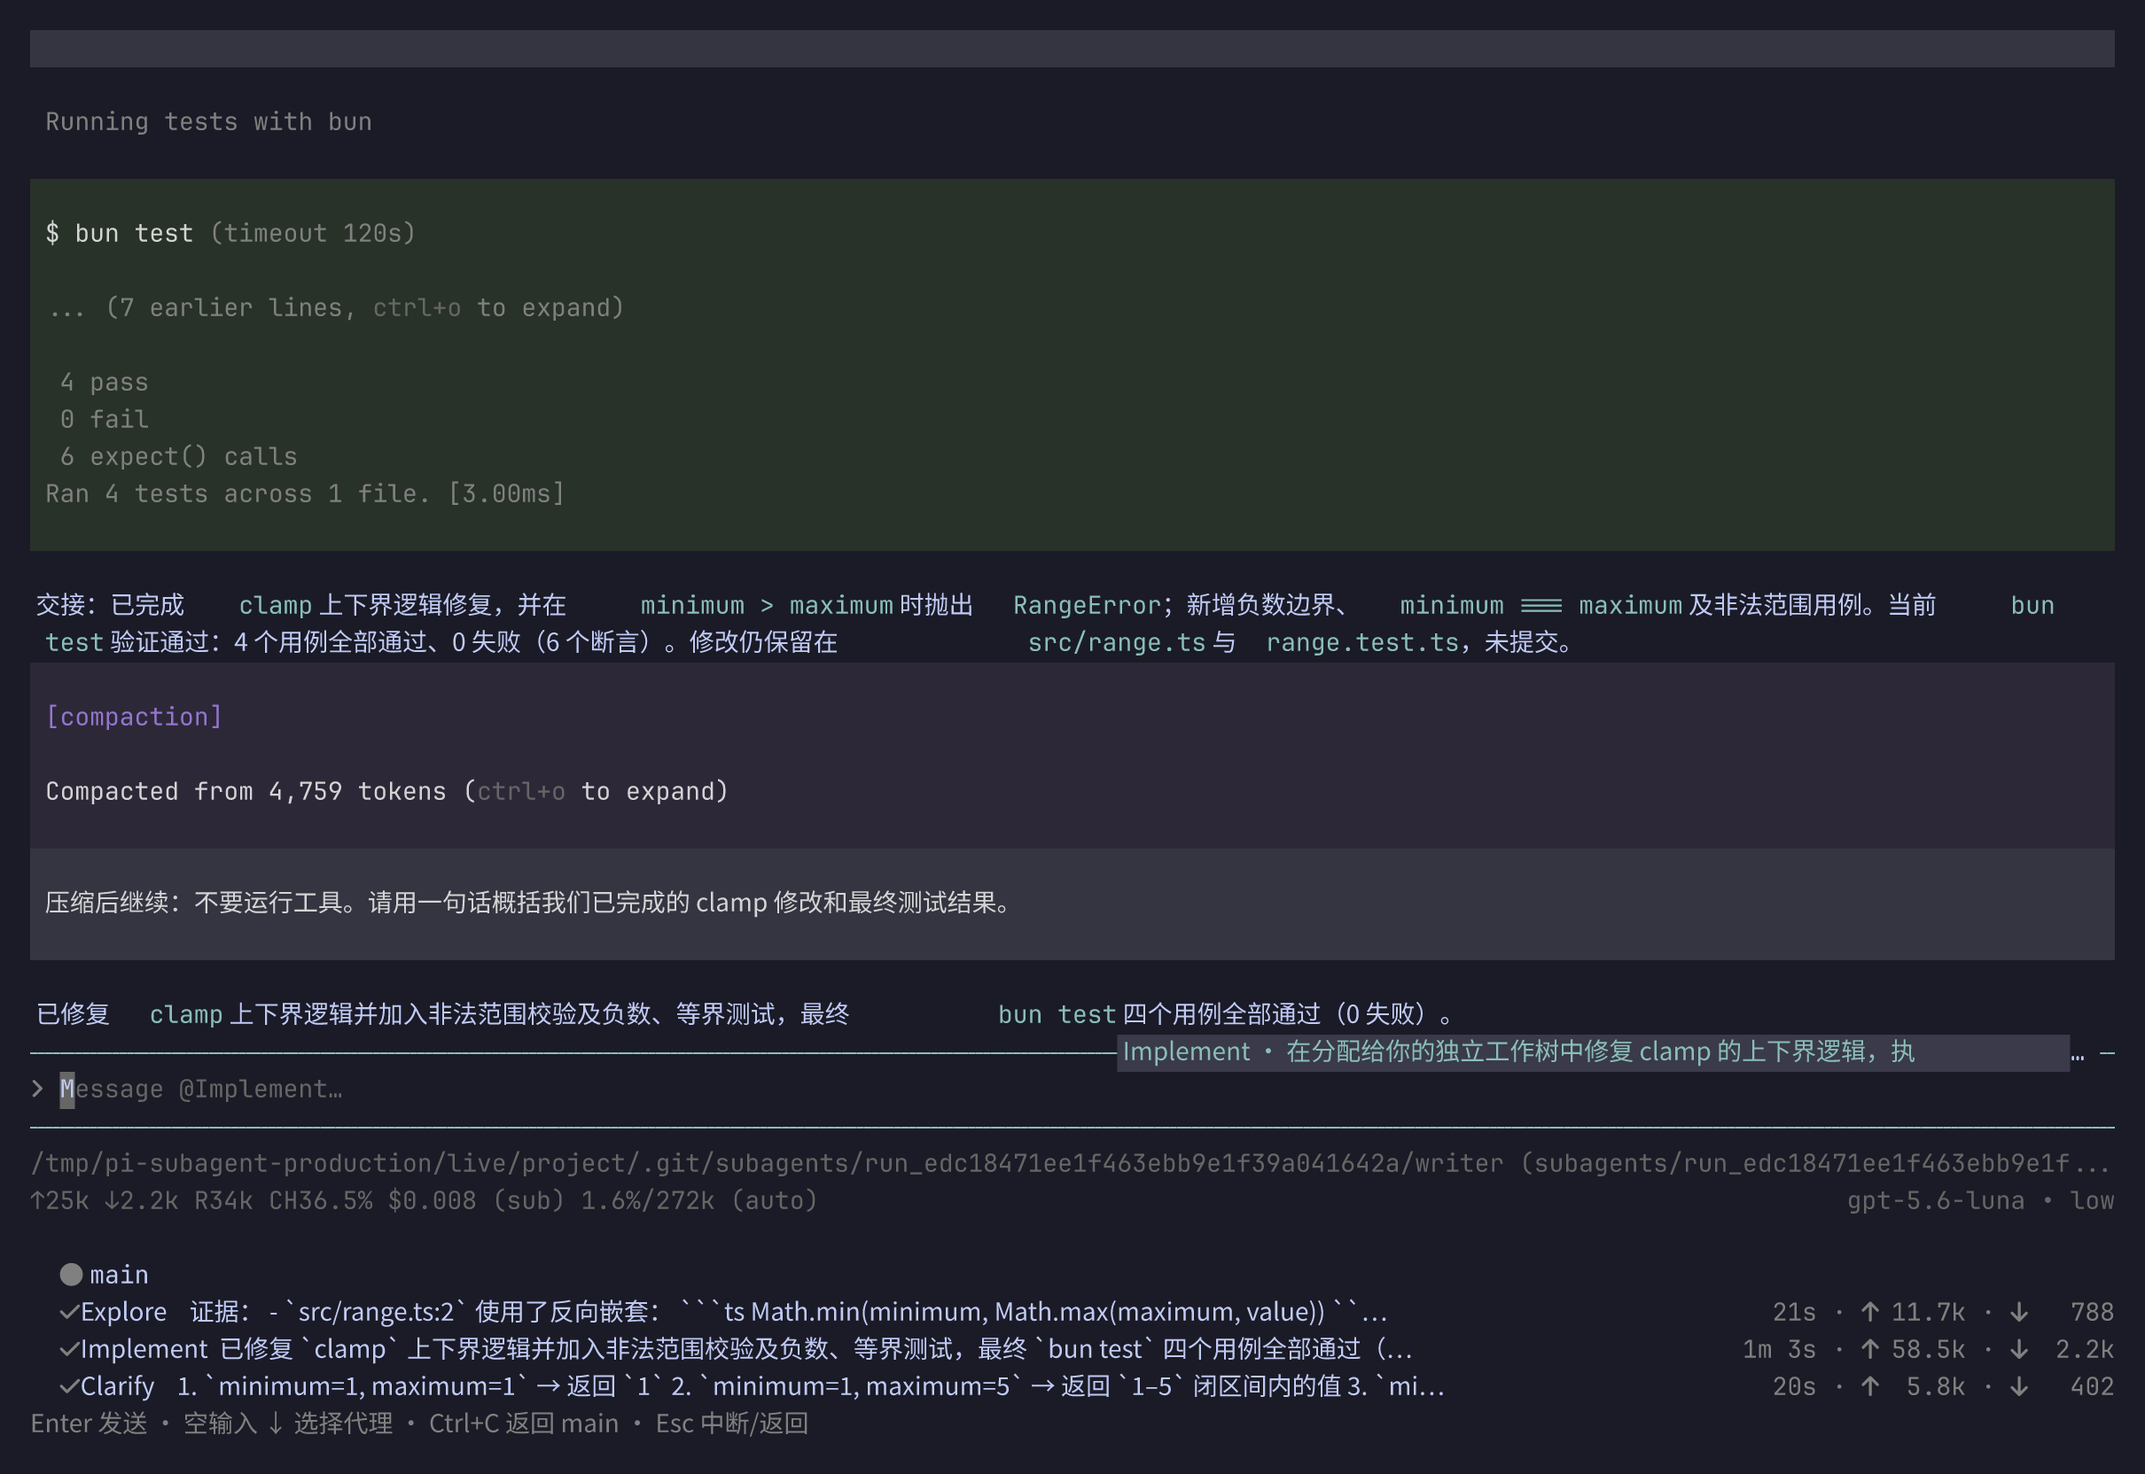
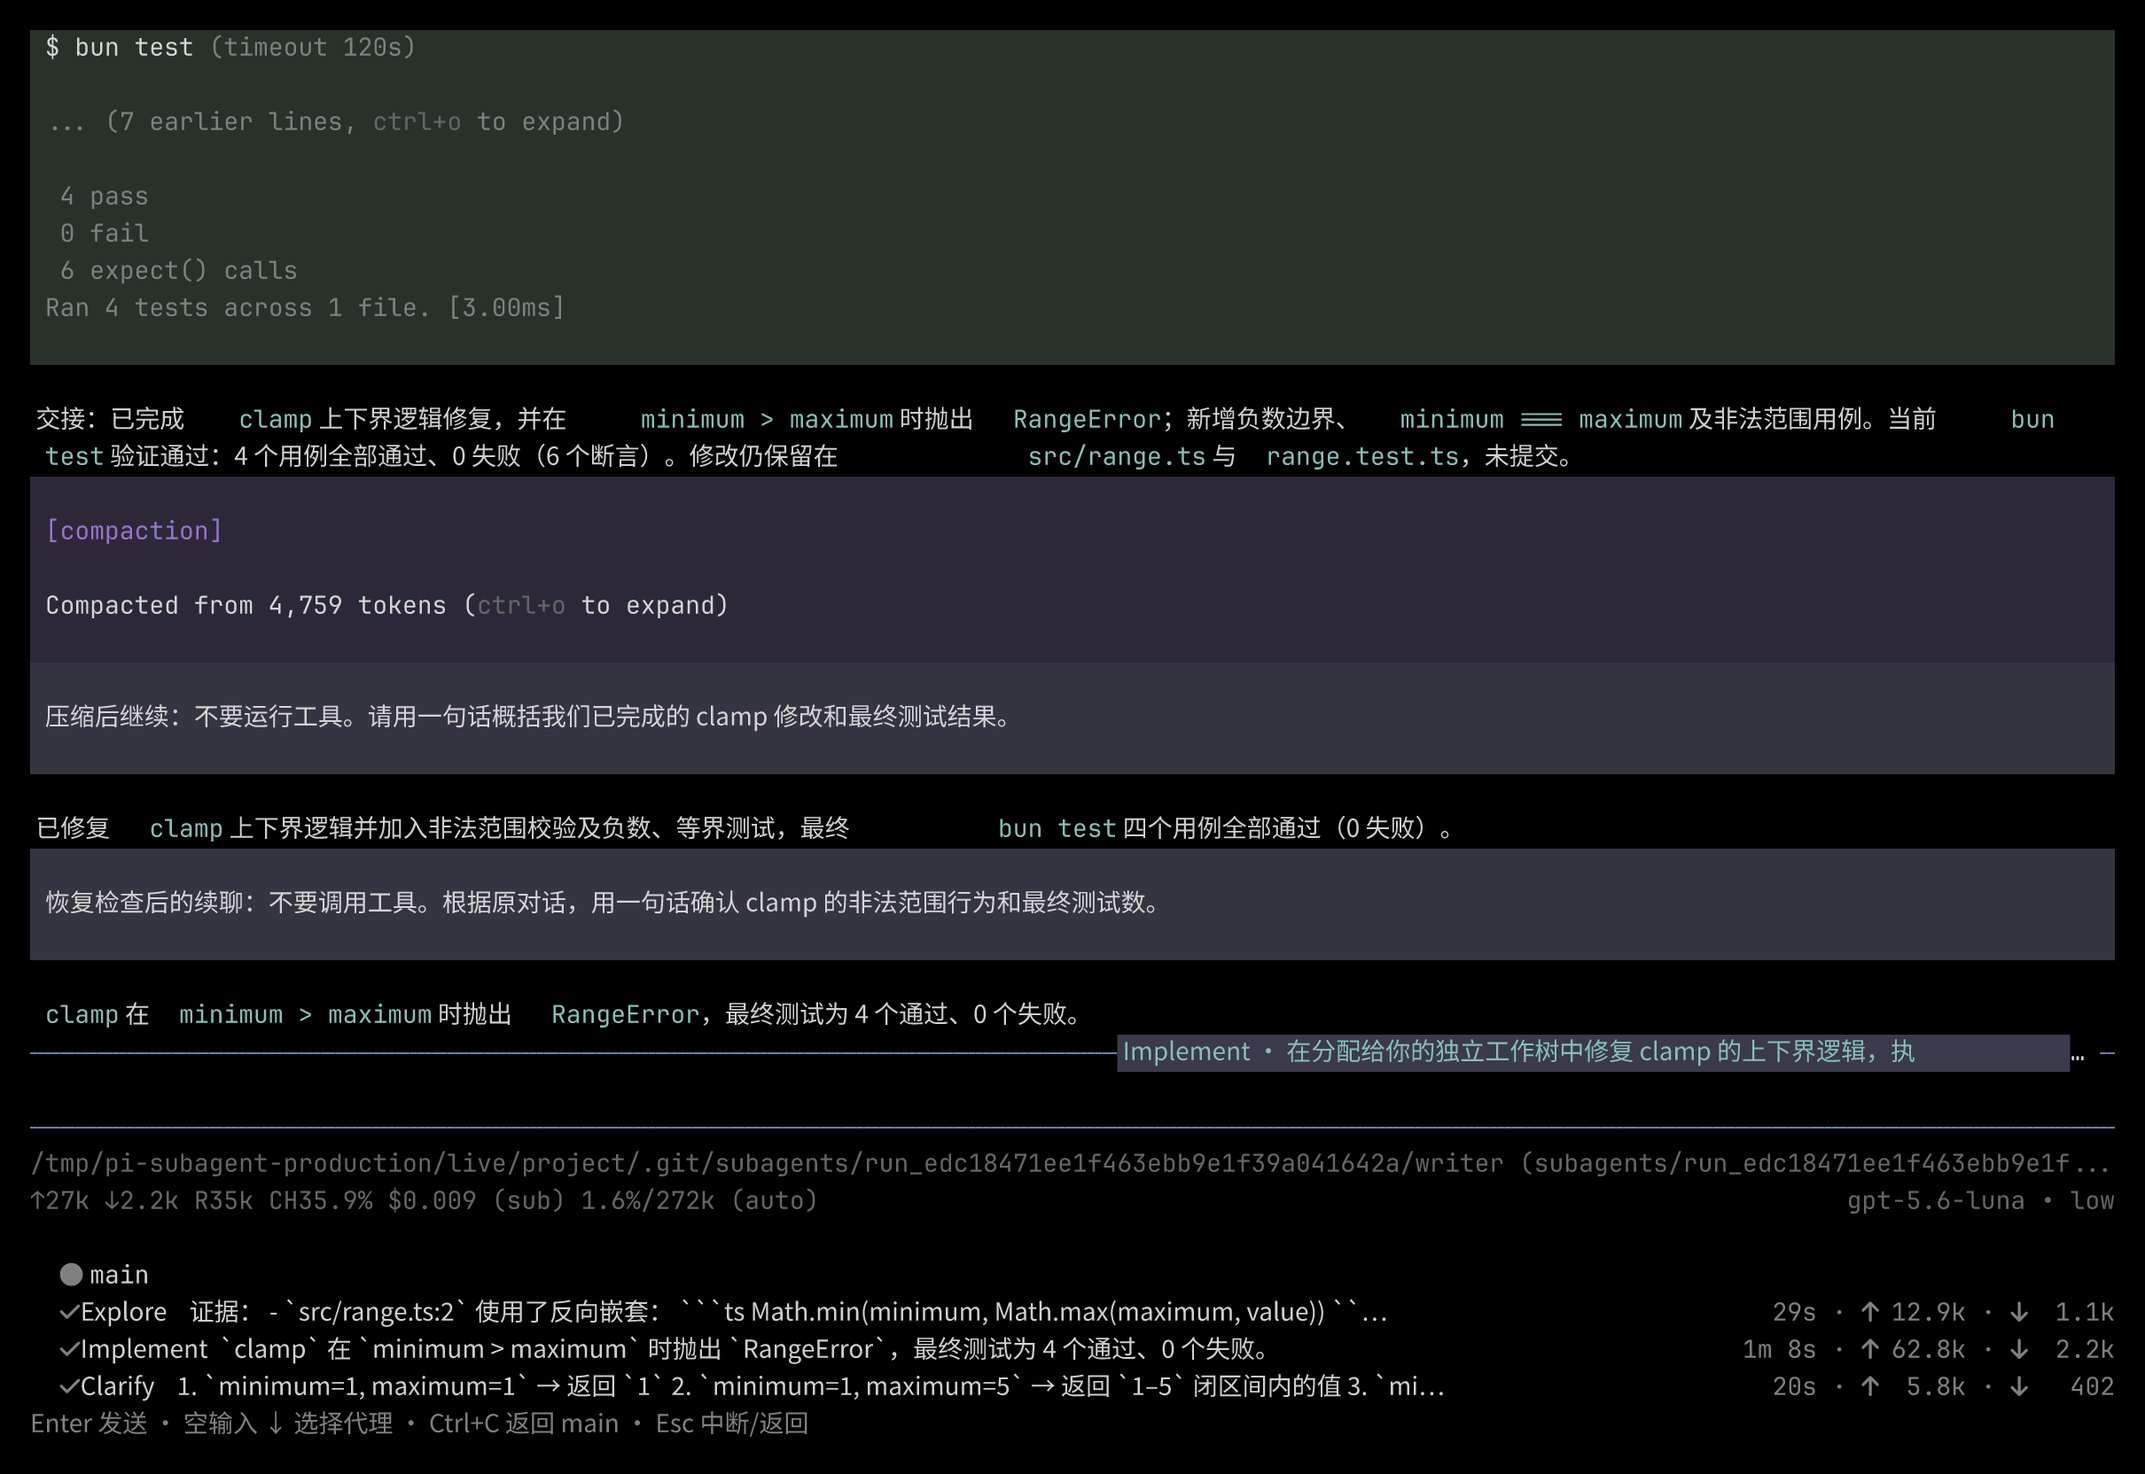
fix(subagent): restore native editor and transcript scrolling
Handle Pi normalized mouse events in the child viewer and use native
viewport bindings. Preserve the native editor input and border styling
except for its upper-right agent label.

diff --git a/src/subagent/ui/viewer.ts b/src/subagent/ui/viewer.ts
@@ -9,6 +9,8 @@ import {
   isKeyRelease,
   matchesKey,
   truncateToWidth,
+  type TuiMouseEvent,
+  type TuiMouseEventResult,
 } from '@earendil-works/pi-tui';
 import {decorateEditor} from './editor';
 import {Fleet, type AgentView} from './fleet';
@@ -38,15 +40,26 @@ export async function openViewer(
       const editor = new CustomEditor(
         tui,
         {
-          borderColor: text => theme.fg('accent', text),
+          borderColor: text =>
+            ctx.ui.theme.getThinkingBorderColor(
+              view.session?.thinkingLevel ?? 'off',
+            )(text),
           selectList: getSelectListTheme(),
         },
         keys,
+        {
+          paddingX: view.session?.settingsManager.getEditorPaddingX() ?? 0,
+          autocompleteMaxVisible:
+            view.session?.settingsManager.getAutocompleteMaxVisible() ?? 5,
+          embedWorkingStatus: true,
+        },
       );
       let footer = view.session
         ? new FooterComponent(view.session, childFooterData(view, footerData))
         : undefined;
       let bodyRows = 1;
+      let editorRows = 0;
+      let maxScroll = 0;
       let closed = false;
       editor.setText(view.draft);
       for (const prompt of historyFor(view)) editor.addToHistory(prompt);
@@ -167,8 +180,10 @@ export async function openViewer(
               ? '↑↓ 选择 · Enter 进入 · x 停止 · Esc 回到输入'
               : 'Enter 发送 · 空输入 ↓ 选择代理 · Ctrl+C 返回 main · Esc 中断/返回',
           );
+          const editorLines = editor.render(width);
+          editorRows = editorLines.length;
           const bottom = [
-            ...editor.render(width),
+            ...editorLines,
             ...footerLines,
             '',
             ...fleetLines,
@@ -179,10 +194,8 @@ export async function openViewer(
           view.transcript?.attach(tui);
           const transcript =
             view.transcript?.render(width, view.expanded) ?? [];
-          view.scroll = Math.min(
-            view.scroll,
-            Math.max(0, transcript.length - bodyRows),
-          );
+          maxScroll = Math.max(0, transcript.length - bodyRows);
+          view.scroll = Math.min(view.scroll, maxScroll);
           const end = transcript.length - view.scroll;
           const body = transcript.slice(Math.max(0, end - bodyRows), end);
           while (body.length < bodyRows) body.push('');
@@ -190,8 +203,49 @@ export async function openViewer(
             truncateToWidth(line, width, '…'),
           );
         },
+        handleMouse(event: TuiMouseEvent): TuiMouseEventResult | undefined {
+          if (event.y >= bodyRows && event.y < bodyRows + editorRows) {
+            const result = editor.handleMouse({
+              ...event,
+              y: event.y - bodyRows,
+              height: editorRows,
+            });
+            if (result) {
+              if (result.focus) fleet.focused = false;
+              return result;
+            }
+          }
+          if (event.type !== 'wheel') return undefined;
+          view.scroll = Math.max(
+            0,
+            Math.min(maxScroll, view.scroll - (event.wheelDelta ?? 0)),
+          );
+          return {handled: true, render: true};
+        },
         handleInput(data: string) {
           if (isKeyRelease(data)) return;
+          const scrolling = [
+            ['tui.altScreen.pageUp', Math.max(1, bodyRows - 2)],
+            ['tui.altScreen.pageDown', -Math.max(1, bodyRows - 2)],
+            ['tui.altScreen.halfPageUp', Math.max(1, Math.floor(bodyRows / 2))],
+            [
+              'tui.altScreen.halfPageDown',
+              -Math.max(1, Math.floor(bodyRows / 2)),
+            ],
+            ['tui.altScreen.lineUp', 1],
+            ['tui.altScreen.lineDown', -1],
+            ['tui.altScreen.top', maxScroll],
+            ['tui.altScreen.bottom', -maxScroll],
+          ] as const;
+          const scroll = scrolling.find(([key]) => keys.matches(data, key));
+          if (scroll) {
+            view.scroll = Math.max(
+              0,
+              Math.min(maxScroll, view.scroll + scroll[1]),
+            );
+            tui.requestRender();
+            return;
+          }
           const action = fleet.select(data, editor.getText() === '', keys);
           if (action) {
             if (action !== true) done(action === 'main' ? undefined : action);
@@ -215,10 +269,6 @@ export async function openViewer(
             else done(undefined);
           } else if (keys.matches(data, 'app.tools.expand')) {
             view.expanded = !view.expanded;
-          } else if (matchesKey(data, 'pageUp')) {
-            view.scroll += Math.max(1, bodyRows - 2);
-          } else if (matchesKey(data, 'pageDown')) {
-            view.scroll = Math.max(0, view.scroll - bodyRows + 2);
           } else if (matchesKey(data, 'ctrl+end')) {
             view.scroll = 0;
           } else {

diff --git a/tests/system/subagent-production.test.ts b/tests/system/subagent-production.test.ts
@@ -26,7 +26,12 @@ function screen(terminal: Session): string {
   return terminal
     .getTerminalData()
     .lines.slice(-terminal.currentRows)
-    .map(line => line.spans.map(span => span.text).join(''))
+    .map(line =>
+      line.spans
+        .map(span => span.text)
+        .join('')
+        .trimEnd(),
+    )
     .join('\n');
 }
 
@@ -59,6 +64,8 @@ test('production Pi host runs the offline subagent fleet through its public UI',
             resolve('node_modules/@earendil-works/pi-coding-agent/dist/cli.js'),
           ]),
       '--offline',
+      '--tui-mode',
+      'fullscreen',
       '--no-extensions',
       '--no-skills',
       '--no-context-files',
@@ -100,14 +107,14 @@ test('production Pi host runs the offline subagent fleet through its public UI',
     await terminal.press('enter');
     await terminal.text({
       timeout: 5000,
-      waitFor: () => screen(terminal).includes('Message @reviewer'),
+      waitFor: () => screen(terminal).includes('reviewer · 审查取消逻辑'),
     });
     expect(alive(mainPid)).toBe(true);
     await terminal.type('保留的 reviewer 草稿');
     await terminal.press(['ctrl', 'c']);
     await terminal.text({
       timeout: 5000,
-      waitFor: () => screen(terminal).includes('Message @main'),
+      waitFor: () => screen(terminal).includes(' main ─'),
     });
     expect(alive(mainPid)).toBe(true);
 
@@ -148,6 +155,45 @@ test('production Pi host runs the offline subagent fleet through its public UI',
     await terminal.type('继续验证恢复');
     await terminal.press('enter');
     await terminal.waitForText('已收到 tester 的补充', {timeout: 15_000});
+    await terminal.press(['ctrl', 'c']);
+
+    // Read the completed child's actual tool history with the mouse, without
+    // stealing its editor draft or cancelling the still-running main worker.
+    for (let index = 0; index < 4; index++) await terminal.press('down');
+    await terminal.press('enter');
+    await terminal.text({
+      timeout: 5000,
+      waitFor: () => screen(terminal).includes('explorer · 定位取消入口'),
+    });
+    await terminal.press(['ctrl', 'o']);
+    expect(screen(terminal)).not.toContain('Message @');
+    await terminal.type('滚动时保留的草稿');
+    await terminal.scrollUp(200, 40, 10);
+    await terminal.text({
+      timeout: 3000,
+      waitFor: () => screen(terminal).includes('checkpoint 1\n'),
+    });
+    expect(screen(terminal)).not.toContain('checkpoint 80');
+    expect(screen(terminal)).toContain('滚动时保留的草稿');
+    await terminal.scrollDown(200, 40, 10);
+    await terminal.text({
+      timeout: 3000,
+      waitFor: () => screen(terminal).includes('checkpoint 80'),
+    });
+    expect(screen(terminal)).not.toContain('checkpoint 1\n');
+    expect(screen(terminal)).toContain('滚动时保留的草稿');
+    await terminal.press('home');
+    await terminal.text({
+      timeout: 3000,
+      waitFor: () => screen(terminal).includes('checkpoint 1\n'),
+    });
+    await terminal.press('end');
+    await terminal.text({
+      timeout: 3000,
+      waitFor: () => screen(terminal).includes('checkpoint 80'),
+    });
+    expect(screen(terminal)).toContain('滚动时保留的草稿');
+    expect(alive(mainPid)).toBe(true);
     await terminal.press(['ctrl', 'c']);
 
     // Release all fixture workers and verify their real process output before shutdown.
@@ -227,7 +273,7 @@ test('production shutdown and reload release only owned workers and restore sess
     await terminal.press('enter');
     await terminal.text({
       timeout: 5000,
-      waitFor: () => screen(terminal).includes('Message @reviewer'),
+      waitFor: () => screen(terminal).includes('reviewer · 审查取消逻辑'),
     });
     await terminal.press(['ctrl', 'c']);
     await terminal.press(['ctrl', 'd']);

diff --git a/src/subagent/ui/editor.ts b/src/subagent/ui/editor.ts
@@ -1,12 +1,11 @@
-import {CustomEditor, type Theme} from '@earendil-works/pi-coding-agent';
+import {type Theme} from '@earendil-works/pi-coding-agent';
 import {
-  CURSOR_MARKER,
   stripTerminalSequences,
   truncateToWidth,
   visibleWidth,
   type EditorComponent,
 } from '@earendil-works/pi-tui';
-import {icons, singleLine} from './rows';
+import {singleLine} from './rows';
 
 export interface EditorIdentity {
   name: string;
@@ -39,28 +38,15 @@ export function decorateEditor(
     );
     if (label && trailing > visibleWidth(label) + 4) {
       const remaining = Math.max(0, width - visibleWidth(label) - 3);
+      const trailingBorder =
+        editor.borderColor?.('─') ?? truncateToWidth(border, 1, '');
       lines[0] =
         truncateToWidth(border, remaining, '') +
         activeTheme.bg(
           'selectedBg',
           activeTheme.bold(activeTheme.fg('accent', ` ${label} `)),
         ) +
-        activeTheme.fg('accent', '─');
-    }
-    if (
-      editor instanceof CustomEditor &&
-      editor.getText() === '' &&
-      lines.length === 3
-    ) {
-      const placeholder = truncateToWidth(
-        `Message @${singleLine(target.name)}…`,
-        width - 4,
-        '…',
-      );
-      const cursor = editor.focused
-        ? `${CURSOR_MARKER}${activeTheme.inverse(placeholder.slice(0, 1))}`
-        : placeholder.slice(0, 1);
-      lines[1] = `${activeTheme.fg('muted', icons.selected)} ${activeTheme.fg('dim', cursor + placeholder.slice(1))}`;
+        trailingBorder;
     }
     return lines;
   };

diff --git a/tests/system/subagent-restoration.test.ts b/tests/system/subagent-restoration.test.ts
@@ -315,7 +315,7 @@ for (const recoveryCase of recoveryCases) {
       if (recoveryCase.mutation === 'missing-session') {
         await writeFile(sessionFile, originalHistory);
         await send(terminal, '/subagents');
-        await waitScreen(terminal, 'Message @readonly');
+        await waitScreen(terminal, 'readonly ·');
         expect(screen(terminal)).toContain('RESTORATION_CHILD_INITIAL');
         expect(fixture.childRequests.length).toBe(1);
         expect(await pathExists(unsafeParentWrite)).toBe(false);

diff --git a/tests/system/fixtures/subagent-runtime.ts b/tests/system/fixtures/subagent-runtime.ts
@@ -132,7 +132,11 @@ export async function createSubagentFixture() {
   );
   await writeFile(
     join(cwd, 'src/cancel.ts'),
-    'export function cancel(id: string): void { void id; }\n',
+    'export function cancel(id: string): void { void id; }\n' +
+      Array.from(
+        {length: 80},
+        (_, index) => `// checkpoint ${index + 1}\n`,
+      ).join(''),
   );
   for (const args of [
     ['init', '-q'],

diff --git a/docs/subagent-verification.md b/docs/subagent-verification.md
@@ -56,6 +56,30 @@ to reopen it in the same process. The compaction regression holds the real
 summary HTTP request and checks that Fleet's seconds advance without any
 keyboard input or model events, then cancels it through the parent tool.
 
+## Native editor and scrolling correction
+
+The maintainer clarified that only the editor’s upper-right agent label may
+differ from native Pi. The blank-input placeholder and extra prompt glyph
+were removed; the child editor now uses Pi’s thinking-level border color and
+editor settings. A focused comparison against the installed `CustomEditor`
+confirmed unchanged native input rows, hidden-line text and working status.
+
+In the retained real-model Explore conversation on fullscreen compiled Pi,
+one wheel-up event and eight wheel-up events both left the transcript
+unchanged before the fix; PageUp worked. Pi dispatches normalized mouse
+events separately from keyboard input, and the viewer had no mouse handler.
+It now consumes Pi’s wheel delta and forwards editor mouse events to the
+native editor. Eight steps up followed by eight down restored the exact
+starting viewport. Clicking a draft and typing inserted text at the clicked
+position. These checks reused saved live-model history without new model
+calls.
+
+The compiled-host UI regression expands an actual 80-line `read` result,
+scrolls to its first and last lines in both directions, checks Home/End,
+and asserts that the draft remains intact and the main worker stays alive.
+The wheel assertion was observed failing before the handler was added.
+The final screenshots below were refreshed after restoring the native editor.
+
 ## Actual interface
 
 Fleet below the parent statusline, with a selected row:

diff --git a/docs/subagents.md b/docs/subagents.md
@@ -133,7 +133,11 @@ leaves Fleet focus and returns to the input. `/subagents` and
 The child viewer keeps the selected child visible while siblings continue in
 the background. It uses Pi's native user, assistant, tool, compaction-summary,
 and branch-summary components for the complete saved conversation. `Ctrl+O`
-toggles expanded tool details, and Page Up/Page Down scroll the transcript.
+toggles expanded tool details. In fullscreen Pi, the mouse wheel scrolls the
+child transcript using Pi’s own scroll step. Page Up/Page Down and Home/End
+also navigate the transcript; configured Pi viewport bindings for pages,
+half-pages, lines, and top/bottom are respected. Scrolling keeps the editor
+draft and Fleet focus intact.
 `Ctrl+C` returns to the main editor.
 Esc cancels an active child (or an active compaction); once the child is
 terminal, Esc closes the viewer and returns to the main editor.
@@ -159,10 +163,10 @@ runtime limit. Fleet shows its activity and elapsed time. Esc, Fleet `x`,
 until compaction settles, with the draft retained. Compaction preserves the
 task's previous completion/failure state and final result.
 
-The editor border labels the input target (`main` or the child name and task),
-and a blank child editor uses a `Message @agent…` placeholder. This makes the
-recipient visible without replacing the parent session or changing Pi's
-normal editor bindings.
+Only the upper-right editor border label identifies the input target (`main`
+or the child name and task). The input area, empty cursor, padding, and
+thinking-level border colors use Pi’s native editor. No input placeholder
+or extra prompt glyph is drawn.
 
 ## Read the counters and icons
 
